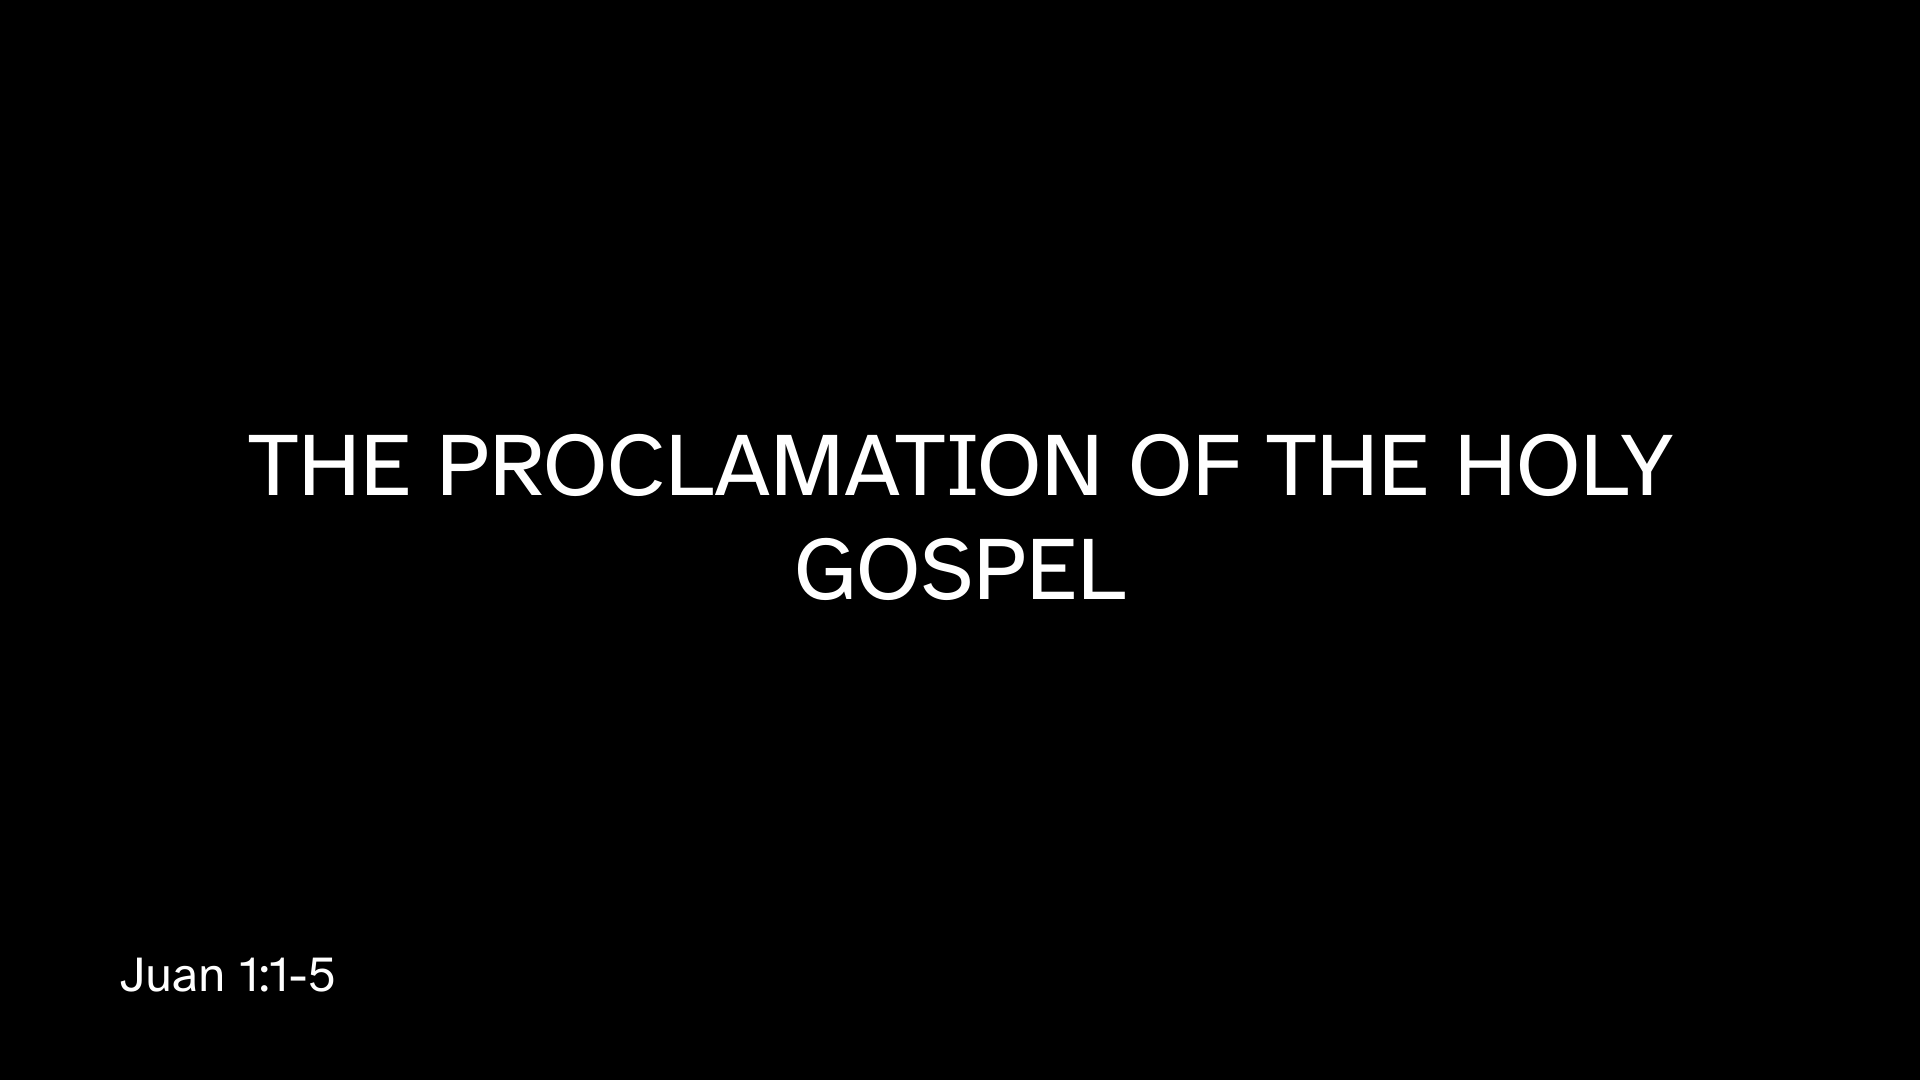
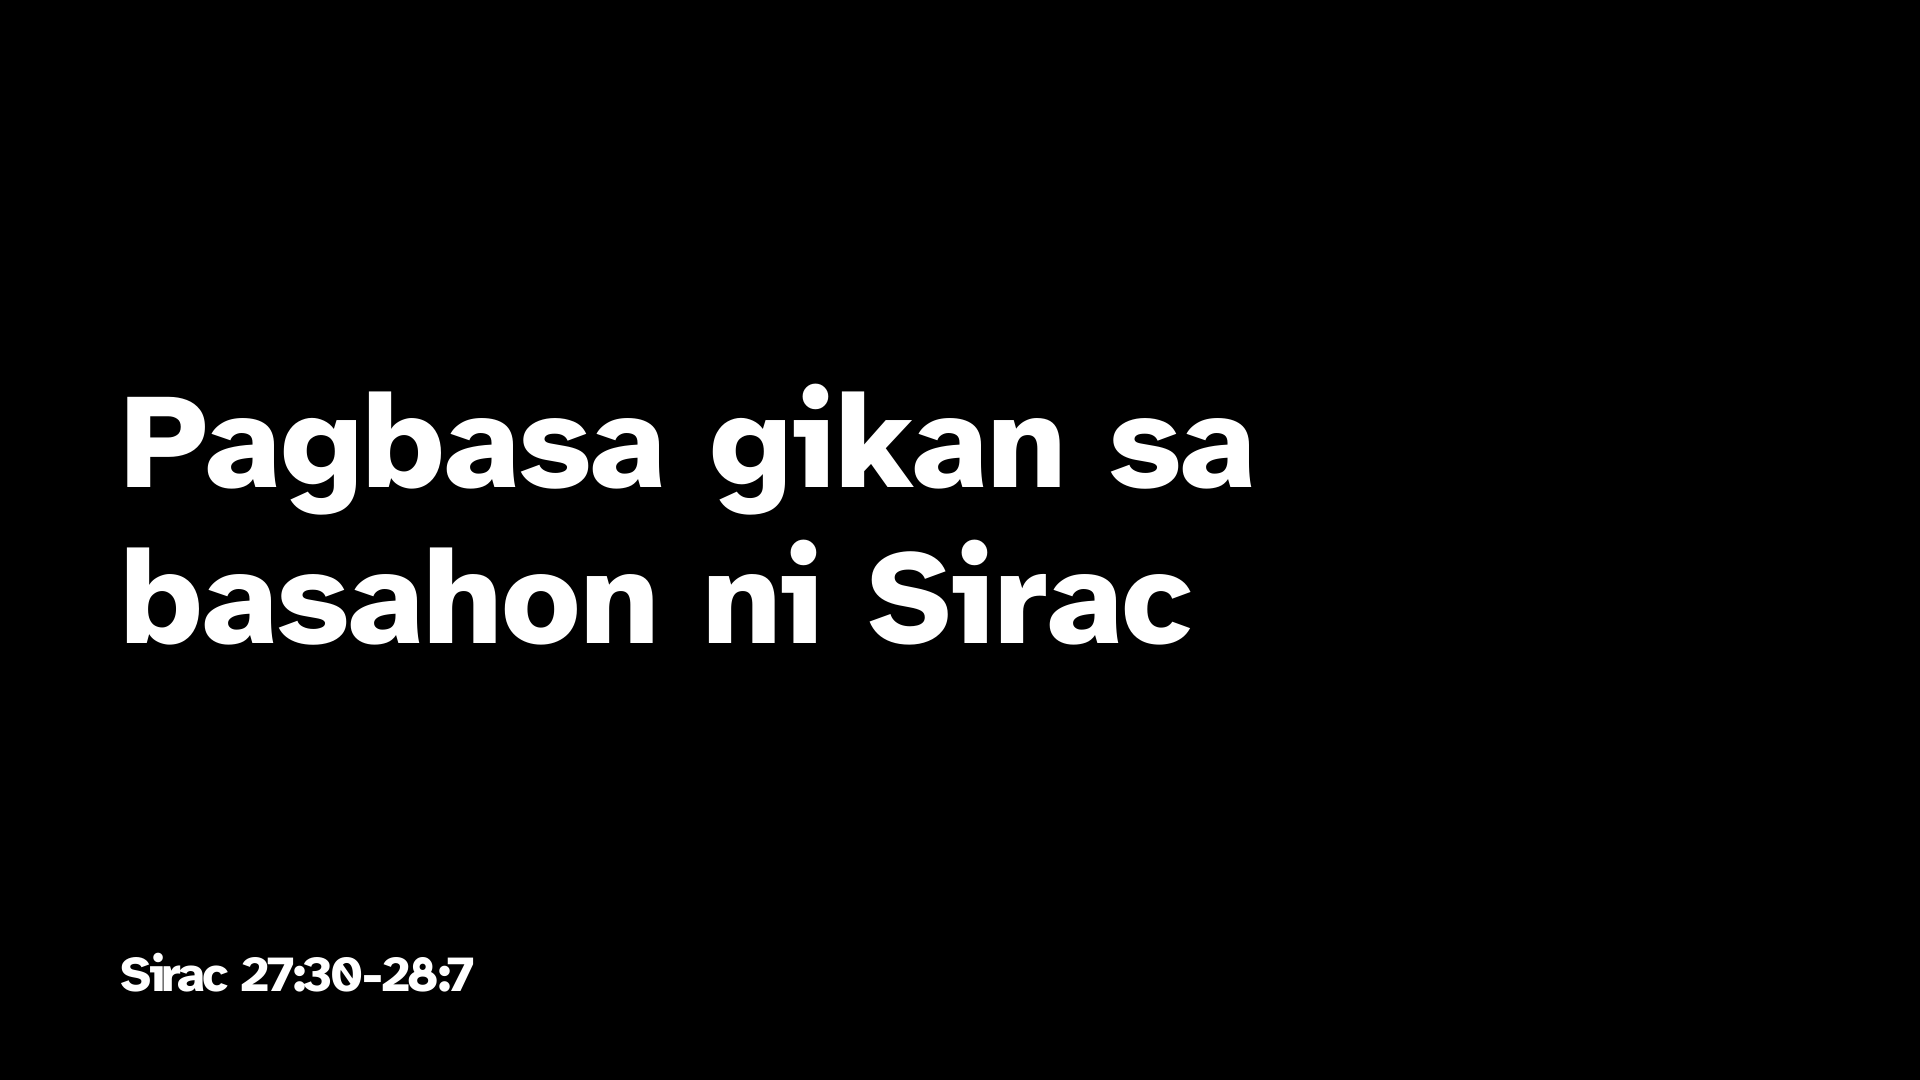
feat(rendering): enlarge reading identification titles

Changed region(s): [[0.0625, 0.3361, 0.875, 0.4889], [0.0625, 0.4889, 0.625, 0.6111], [0.0625, 0.8861, 0.25, 0.9167]]

diff --git a/crates/rendering/src/templates.rs b/crates/rendering/src/templates.rs
@@ -13,8 +13,10 @@
 //!   space; that absent-label composition is the label-off variant.
 //! - Response: resolved header, stored text rendered uppercase as the
 //!   emphasized body, no footer.
-//! - Reading identification: no header, large uppercase proclamation title
-//!   centered in the body, reference at bottom-left.
+//! - Reading identification: no header, proclamation title preserved
+//!   exactly as authored (mixed case, never uppercased) at the candidate
+//!   135px/800 level, left-aligned to the safe-area left edge and centered
+//!   vertically in the body, reference at bottom-left.
 //! - Reading passage: no header, passage in the body, reference at
 //!   bottom-left on every slide. A projected cantor verse uses this kind.
 //! - Psalm: resolved header at top-left, refrain centered in the remainder,
@@ -54,13 +56,14 @@
 //! Relative hierarchy with candidate numbers (T0.4.10, pending human approval
 //! per `docs/qualification/T0.4-MANUAL-GATE.md`): display (90px, the
 //! projected-response token and gallery baseline, +25% from the 72px PR 5
-//! provisional) carries emphasized bodies and large titles; passage (70px,
+//! provisional) carries emphasized bodies; passage (70px,
 //! +25% from 56px) carries running scripture and general text, smaller than
 //! identification titles; meta (50px, +25% from 40px) carries labels,
-//! headers, references, credits, dates, and captions. Celebration title is
-//! the one exception: candidate title 135px/800 (50% above display) with an
-//! optional Normal-Case subtitle at 68px/300 (75% of display), pending the
-//! same human approval. PR 5 carried the
+//! headers, references, credits, dates, and captions. Celebration title and
+//! Reading identification share the one exception: candidate title 135px/800
+//! (50% above display), left-aligned to the safe-area left edge, with the
+//! Celebration-only optional Normal-Case subtitle at 68px/300 (75% of
+//! display), pending the same human approval. PR 5 carried the
 //! provisional 72/56/40 levels; PR 10 proposes 90/70/50 as candidate for
 //! gallery review — whether long Cebuano/English cases are comfortably
 //! readable there is a pending human judgment.
@@ -79,8 +82,7 @@ use crate::interface::{
 use crate::shaping::{self, Alignment, VAlign};
 
 /// Candidate display size (T0.4.10, pending approval): the 90px projected-response token (+25%
-/// from the 72px PR 5 provisional baseline). Emphasized bodies and large
-/// titles measure here.
+/// from the 72px PR 5 provisional baseline). Emphasized bodies measure here.
 pub const PROVISIONAL_DISPLAY_SIZE: u32 = shaping::BODY_FONT_SIZE;
 /// Candidate passage size (T0.4.10, pending approval): running scripture and general text, smaller
 /// than identification titles. 70px, +25% from the 56px PR 5 provisional.
@@ -90,7 +92,7 @@ pub const PROVISIONAL_PASSAGE_SIZE: u32 = 70;
 pub const PROVISIONAL_META_SIZE: u32 = 50;
 /// Candidate celebration-title size (T0.4.10, pending human approval):
 /// 135px at weight 800, 50% above the 90px display baseline, left-aligned
-/// to the safe-area left edge.
+/// to the safe-area left edge. Shared by Reading identification titles.
 pub const CELEBRATION_TITLE_SIZE: u32 = 135;
 /// Candidate celebration-subtitle size (T0.4.10, pending human approval):
 /// 68px at weight 300 in Normal Case (75% of the 90px display baseline),
@@ -175,14 +177,15 @@ fn celebration_subtitle() -> ZoneStyle {
     }
 }
 
-/// Map one template onto resolved zones. Uppercase kinds transform only
-/// their title/body text with the pinned Unicode mapping, which is
-/// deterministic for a pinned toolchain; headers and references always pass
-/// through verbatim. CelebrationTitle preserves its title exactly as
-/// authored (mixed case, never uppercased) and reuses the header slot
-/// renderer-locally as an optional Normal-Case subtitle: absent, empty, or
-/// whitespace-only reserves no space, and title plus subtitle center
-/// together via the zoned `body_tail` segment.
+/// Map one template onto resolved zones. Response and SongIdentification
+/// transform only their title/body text with the pinned Unicode mapping,
+/// which is deterministic for a pinned toolchain; headers and references
+/// always pass through verbatim. ReadingIdentification and CelebrationTitle
+/// preserve their titles exactly as authored (mixed case, never uppercased).
+/// CelebrationTitle reuses the header slot renderer-locally as an optional
+/// Normal-Case subtitle: absent, empty, or whitespace-only reserves no
+/// space, and title plus subtitle center together via the zoned `body_tail`
+/// segment.
 fn compose_content(content: &TemplateContent) -> Composition {
     let neutral = ZoneStyle::neutral();
     let passage_left = ZoneStyle {
@@ -221,13 +224,13 @@ fn compose_content(content: &TemplateContent) -> Composition {
         },
         TemplateKind::ReadingIdentification => Composition {
             semantic: SemanticContent {
-                body: content.body.to_uppercase(),
+                body: content.body.clone(),
                 response_header: None,
                 psalm_header: None,
                 footer: content.footer.clone(),
             },
             header: neutral,
-            body: display(Alignment::Center),
+            body: celebration_title(),
             footer: meta_left(),
             footer_lead: None,
             body_tail: None,

diff --git a/crates/rendering/tests/templates.rs b/crates/rendering/tests/templates.rs
@@ -189,7 +189,7 @@ fn response_header_passes_through_and_body_renders_uppercase_centered() {
 }
 
 #[test]
-fn reading_identification_centers_title_above_bottom_left_reference() {
+fn reading_identification_left_aligns_title_above_bottom_left_reference() {
     let theme = Theme::default();
     let density = TargetDensity::SCALE_100;
     let (frame, _) = render_template(
@@ -206,16 +206,26 @@ fn reading_identification_centers_title_above_bottom_left_reference() {
 
     assert_eq!(frame.header(), None);
     assert_eq!(frame.body_lines().len(), 1);
-    assert_eq!(frame.body_lines()[0].text, "PROCLAMATION TITLE");
-    let body = frame.body();
+    // Authored mixed case passes through unchanged, never uppercased.
+    assert_eq!(frame.body_lines()[0].text, "Proclamation title");
+    let safe = frame.safe_area();
     let title = &frame.body_lines()[0];
-    assert_eq!(
-        title.x,
-        body.x as i32 + (body.width as i32 - title.width) / 2
+    assert_eq!(title.x, safe.x as i32, "title hugs the safe-area left edge");
+    assert_eq!(title.size, CELEBRATION_TITLE_SIZE);
+    assert_eq!(title.size, 135);
+    assert_eq!(title.weight, 800);
+    assert_eq!(title.height, line_height_for(CELEBRATION_TITLE_SIZE));
+    // Vertically centered in the body zone within one unit.
+    let body = frame.body();
+    let top_gap = title.y - body.y as i32;
+    let bottom_gap = body.y as i32 + body.height as i32 - (title.y + title.height as i32);
+    assert!(top_gap > 0, "title must not hug the top edge");
+    assert!(
+        (top_gap - bottom_gap).abs() <= 1,
+        "title centers vertically: {top_gap} vs {bottom_gap}"
     );
     // The reference sits bottom-left: footer origin at the safe corner and
     // its line starting exactly there.
-    let safe = frame.safe_area();
     let footer = frame.footer().expect("reference reserves the footer zone");
     assert_eq!(
         (footer.x, footer.y + footer.height),
@@ -224,6 +234,10 @@ fn reading_identification_centers_title_above_bottom_left_reference() {
     assert_eq!(frame.footer_lines().len(), 1);
     assert_eq!(frame.footer_lines()[0].text, "Reference text");
     assert_eq!(frame.footer_lines()[0].x, safe.x as i32);
+    assert_eq!(
+        frame.footer_lines()[0].height,
+        line_height_for(PROVISIONAL_META_SIZE)
+    );
 }
 
 #[test]
@@ -259,14 +273,21 @@ fn reading_passage_is_smaller_than_identification_with_the_same_reference() {
     );
     assert_eq!(
         identification.body_lines()[0].height,
-        line_height_for(PROVISIONAL_DISPLAY_SIZE)
+        line_height_for(CELEBRATION_TITLE_SIZE)
     );
     assert!(
         passage.body_lines()[0].height < identification.body_lines()[0].height,
         "passage stays smaller than identification"
     );
-    // Passage body is left-origin; references match bottom-left in both.
+    // Both bodies hug the safe-area left edge; references match bottom-left
+    // in both.
     assert_eq!(passage.body_lines()[0].x, passage.safe_area().x as i32);
+    assert_eq!(
+        identification.body_lines()[0].x,
+        identification.safe_area().x as i32
+    );
+    assert_eq!(identification.body_lines()[0].size, CELEBRATION_TITLE_SIZE);
+    assert_eq!(identification.body_lines()[0].weight, 800);
     for frame in [&passage, &identification] {
         let safe = frame.safe_area();
         let footer = frame.footer().expect("reference reserves a footer");

diff --git a/docs/qualification/T0.4-GALLERY-CANDIDATE.md b/docs/qualification/T0.4-GALLERY-CANDIDATE.md
@@ -30,16 +30,19 @@ and emergency export consume:
 T0.4.10 proposes the projected levels as candidate at **display `90px` /
 passage `70px` / meta `50px`** — each exactly +25% from the PR 5 provisional
 `72px` / `56px` / `40px`. Line advance stays `ceil(size * 1.15)`: 104 / 81 /
-58. The Celebration exception is candidate at **title `135px`/weight `800`
-(50% above display, advance `156px`) with an optional Normal-Case subtitle
-at `68px`/weight `300` (75% of display, advance `79px`)**: the title stays
-exactly as authored (mixed case, never uppercased), both hug the safe-area
-left edge with the subtitle below the title, title plus subtitle center
-together above the unchanged bottom-left date, and absent/empty/whitespace
-subtitle reserves nothing. Operator, UI, and lab-control typography are
+58. The Celebration/Reading-identification exception is candidate at **title
+`135px`/weight `800` (50% above display, advance `156px`) with a
+Celebration-only optional Normal-Case subtitle at `68px`/weight `300` (75%
+of display, advance `79px`)**: both titles stay exactly as authored (mixed
+case, never uppercased), both hug the safe-area left edge, the Celebration
+subtitle sits below the title, title plus subtitle center together above the
+unchanged bottom-left date, Reading identification centers vertically above
+its unchanged bottom-left reference, and absent/empty/whitespace subtitle
+reserves nothing. Operator, UI, and lab-control typography are
 unchanged. `DESIGN.md` and `ui::tokens` carry the candidate `90px`
 projected-response token; the renderer carries the candidate corpus sizes.
-Whether long cases — including the Celebration `135/800` + `68/300` pair —
+Whether long cases — including the Celebration `135/800` + `68/300` pair and
+the Reading-identification `135/800` titles —
 are comfortably readable at these levels is **pending** human approval in
 `T0.4-MANUAL-GATE.md`; nothing here claims them frozen or qualified.
 
@@ -106,6 +109,8 @@ scale, `F5` the target density; diagnostics ride beside the scaled frame.
 | lyrics-tagalog-three-line | Lyrics | `Taludtod` | 3/3 | 0 | lyric body carries 3 phrases against a two-phrase target; split before shrinking | `gallery-candidate/lyrics-tagalog-three-line.png` |
 | psalm-header-empty | Psalm | empty | 1/1 | 1 | none | `gallery-candidate/psalm-header-empty.png` |
 | psalm-tagalog | Psalm | `SALMO RESPONSORYO: Awit 95` | 1/2 | 1 | none | `gallery-candidate/psalm-tagalog.png` |
+| reading-identification-mateo | ReadingIdentification | absent | 1/3 | 1 | none | `gallery-candidate/reading-identification-mateo.png` |
+| reading-identification-roma | ReadingIdentification | absent | 1/3 | 1 | none | `gallery-candidate/reading-identification-roma.png` |
 | reading-identification | ReadingIdentification | absent | 1/2 | 1 | none | `gallery-candidate/reading-identification.png` |
 | reading-passage-cebuano | ReadingPassage | absent | 1/2 | 1 | none | `gallery-candidate/reading-passage-cebuano.png` |
 | reading-passage-english | ReadingPassage | absent | 1/2 | 1 | none | `gallery-candidate/reading-passage-english.png` |
@@ -126,6 +131,11 @@ Measured at the candidate levels, from the real renderer (see table):
 - `lyrics-tagalog-three-line` and `psalm-tagalog`: fit with phrase-target
   notes only; no geometric overflow.
 - `response-cebuano` (`TUBAG:` + uppercase body, 90px): 1 line, no warnings.
+- `reading-identification` (Sirac title preserved sentence case at 135px/800):
+  1 authored line, 2 rendered lines, `fit=fits`, no warnings.
+- `reading-identification-roma` and `reading-identification-mateo` (Roma/Mateo
+  titles preserved sentence case at 135px/800): each 1 authored line, 3
+  rendered lines, `fit=fits`, no warnings.
 - `celebration-title` (title preserved mixed case at 135px/800 + subtitle
   `National Catechetical Day` at 68px/300): 1 authored body line, 4 rendered
   lines (3 title + 1 subtitle), `fit=fits`, no warnings; the three-line

diff --git a/MVP-PLAN.md b/MVP-PLAN.md
@@ -724,9 +724,9 @@ updated before implementation begins.
 - Pagination targets two logical lyric phrases and no more than four rendered lyric lines per slide.
 - Split at intentional line or phrase boundaries before reducing size; never silently clip or shrink below the minimum.
 - Lyrics preserve authored casing and optionally repeat their section label at top-left. Response text stores authored casing but renders uppercase beneath an optional repeated authored header resolved before rendering; `TUBAG:` is the Cebuano template default, not a renderer literal.
-- Reading identification renders the uppercase proclamation title above a bottom-left reference. Reading passages preserve authored casing, keep the reference on every Slide, and treat a blank line as a hard Slide boundary.
+- Reading identification uses the normalized mixed-case authored proclamation title at candidate 135px/800, left-aligned to safe-area left and vertically centered above its bottom-left reference; do not add First/Second/Gospel labels. Passages retain their existing authored case, per-slide reference, and blank-line boundary behavior.
 - Responsorial Psalm emits one linked refrain before the first cantor verse and after every verse. Its optional authored small header is copied from or overridden against the plan/template wording; `SALMO RESPONSORYO` is the Cebuano template default, not a renderer literal. An unprojected cantor verse is a Wait Cue that leaves Program unchanged; an enabled cantor projection uses Reading-passage treatment.
-- Song identification uses a bottom-left uppercase title/credit block. Celebration title uses a vertically centered uppercase title and bottom-left localized date. Both permit at most three title lines before readiness warning.
+- Song identification uses a bottom-left uppercase title/credit block. Celebration title preserves authored mixed case at 135px/800, left-aligned; optional Normal-Case subtitle is 68px/300 below it; title/subtitle group centers above the unchanged bottom-left localized date. No operator/UI change. Both permit at most three title lines before readiness warning.
 - General Presentation Text mode supports optional header, center-left body, and optional footer. Image mode contains one foreground image in the safe area with optional header/caption; Theme images remain backgrounds.
 - Higher-density output may rerender the same geometry for sharpness but cannot recompute layout.
 - Ratios within 0.1% of 16:9 fill the display. Other ratios preserve the complete frame with black bars and a warning.

diff --git a/DESIGN.md b/DESIGN.md
@@ -263,9 +263,11 @@ Use these fixed template relationships:
 - **Response:** optional repeated ExtraBold authored header resolved before
   rendering (for example, the Cebuano template default `TUBAG:`); stored
   authored text rendered uppercase as the emphasized body.
-- **Reading identification:** large uppercase proclamation title centered in
-  the space above a bottom-left Scripture reference. Do not add First Reading,
-  Second Reading, or Gospel labels to congregation output.
+- **Reading identification:** proclamation title preserved exactly as authored
+  (mixed case, never uppercased) at candidate `135px`/weight `800`,
+  left-aligned to the safe-area left edge and centered vertically in the body
+  region above the unchanged bottom-left Scripture reference. Do not add
+  First Reading, Second Reading, or Gospel labels to congregation output.
 - **Reading passage:** authored-case ordinary-weight Scripture, smaller than
   identification, with the reference at bottom-left on every Slide.
 - **Responsorial Psalm:** optional small ExtraBold authored header resolved
@@ -298,9 +300,10 @@ counts.
 
 The relative hierarchy is adopted, and the projected levels are candidate at
 T0.4.10 at display `90px` / passage `70px` / meta `50px` (each exactly +25%
-from the PR 5 provisional `72px` / `56px` / `40px`), plus the Celebration
-exception at candidate title `135px`/weight `800` (50% above display) with an
-optional Normal-Case subtitle at `68px`/weight `300` (75% of display),
+from the PR 5 provisional `72px` / `56px` / `40px`), plus the shared
+Celebration/Reading-identification exception at candidate title
+`135px`/weight `800` (50% above display) with a Celebration-only optional
+Normal-Case subtitle at `68px`/weight `300` (75% of display),
 proposed for the fixture-backed gallery candidate. Whether long Cebuano and
 English cases are comfortably readable at these levels is a pending human
 visual judgment, recorded in `docs/qualification/T0.4-MANUAL-GATE.md` —

diff --git a/decision.md b/decision.md
@@ -2964,6 +2964,21 @@ Emergency editing is a second controlled exception:
   rather than a same-named system installation; T1.3's caching scope is
   reconciled against that result before it starts.
 
+### 262. Render Reading identification in sentence case at the Celebration title level
+
+- This narrowly supersedes only Decision 255's Reading-identification rule;
+  Decision 255 stays historical and authoritative for every other template, and this does not revive older Celebration-title appearance wording that T0.4.10 already updated.
+- Render the proclamation title exactly as authored (normalized sentence
+  case, never uppercased): `Pagbasa gikan sa basahon ni Sirac` / `Sirac
+  27:30-28:7`, `Pagbasa gikan sa sulat ni San Pablo ngadto sa taga-Roma` /
+  `Roma 14:7-9`, `Pagbasa sa Santos nga Ebanghelyo sumala ni San Mateo` /
+  `Mateo 18:21-35`.
+- Compose the title at the shared candidate `135px`/weight `800`,
+  left-aligned to the safe-area left edge and vertically centered in the
+  body region above the unchanged bottom-left meta reference; references
+  keep their size and position. No First/Second/Gospel labels, and no other
+  template, schema, parser, UI, compositor, or typography change.
+
 ## Final design-status summary
 
 The following branches are resolved for the MVP baseline:

diff --git a/docs/qualification/gallery-candidate/capture-rows.md b/docs/qualification/gallery-candidate/capture-rows.md
@@ -25,6 +25,8 @@
 | lyrics-tagalog-three-line | Lyrics | `Taludtod` | 3/3 | 0 | lyric body carries 3 phrases against a two-phrase target; split before shrinking | `gallery-candidate/lyrics-tagalog-three-line.png` |
 | psalm-header-empty | Psalm | empty | 1/1 | 1 | none | `gallery-candidate/psalm-header-empty.png` |
 | psalm-tagalog | Psalm | `SALMO RESPONSORYO: Awit 95` | 1/2 | 1 | none | `gallery-candidate/psalm-tagalog.png` |
+| reading-identification-mateo | ReadingIdentification | absent | 1/3 | 1 | none | `gallery-candidate/reading-identification-mateo.png` |
+| reading-identification-roma | ReadingIdentification | absent | 1/3 | 1 | none | `gallery-candidate/reading-identification-roma.png` |
 | reading-identification | ReadingIdentification | absent | 1/2 | 1 | none | `gallery-candidate/reading-identification.png` |
 | reading-passage-cebuano | ReadingPassage | absent | 1/2 | 1 | none | `gallery-candidate/reading-passage-cebuano.png` |
 | reading-passage-english | ReadingPassage | absent | 1/2 | 1 | none | `gallery-candidate/reading-passage-english.png` |
